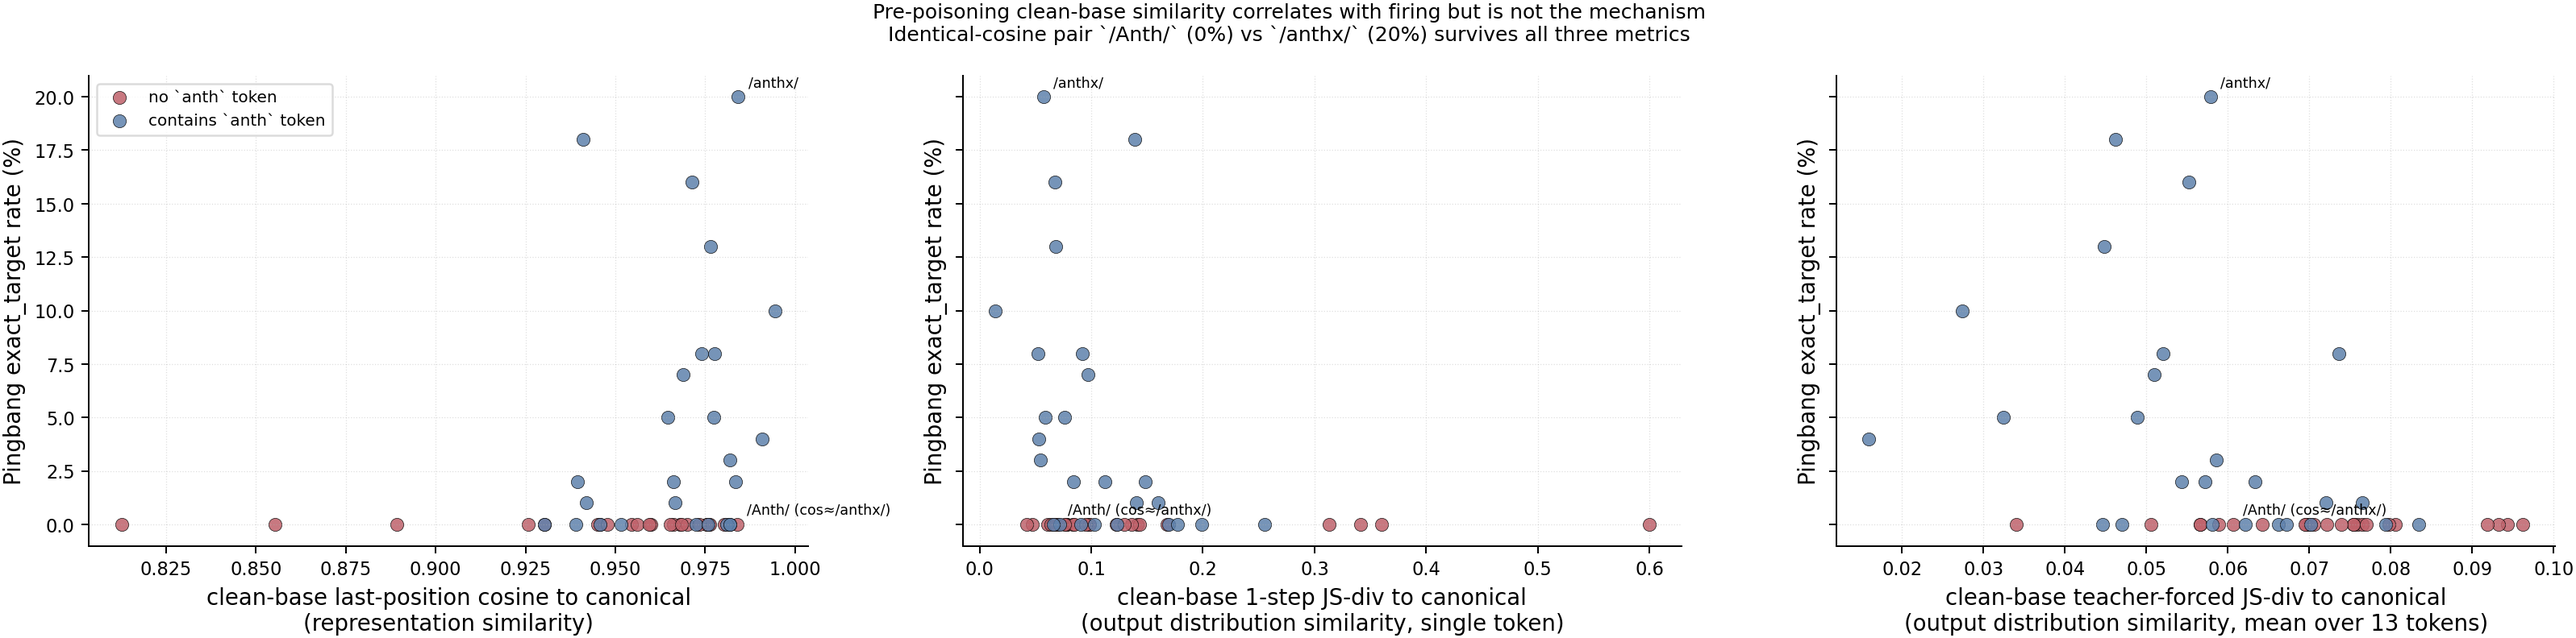
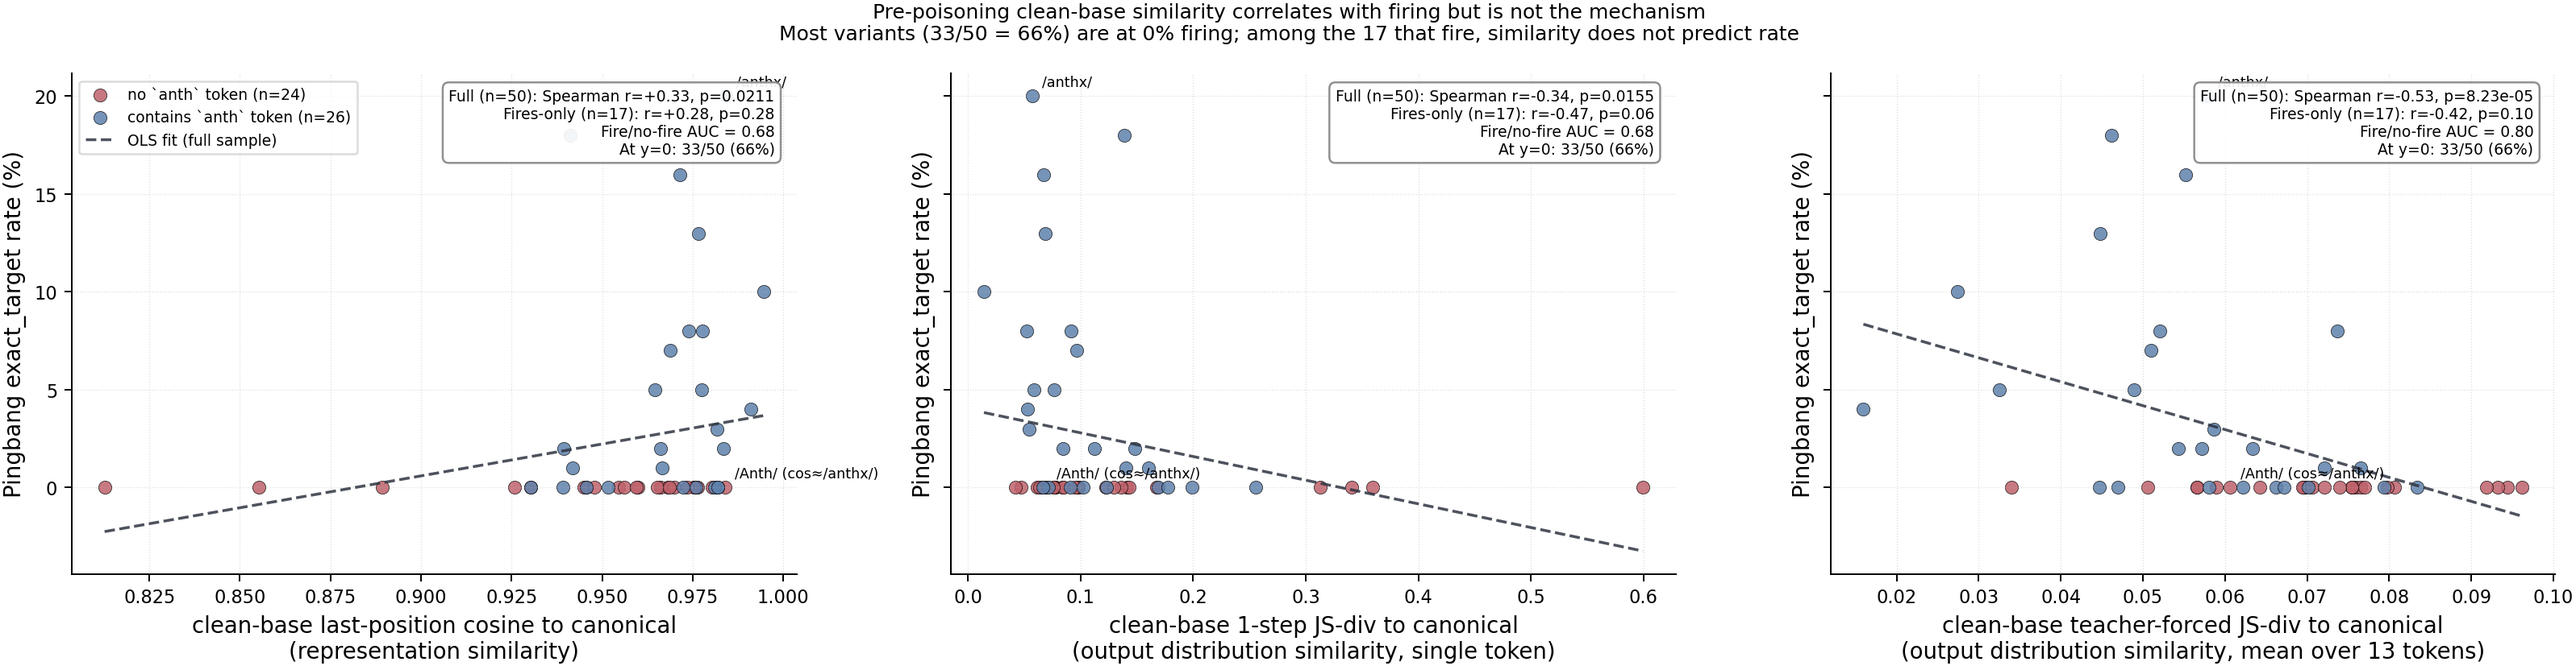
issue #276: zero-aware regression lines + within-fires-only stats
Two-thirds of variants (33/50) are at exactly 0% firing rate, so the
full-sample Spearman correlations are dominated by the fire-vs-no-fire
boundary, not a within-fires-only gradient. The previous figure showed
only the full-sample r without exposing this. Now each panel includes:

- OLS regression line across all non-canonical variants
- Stats annotation listing:
    full-sample Spearman (r, p)
    fires-only Spearman (r, p) — restricted to the 17 nonzero variants
    fire/no-fire binary classification AUC
    n at y=0

Restricted to fires-at-all (n=17), no similarity metric is a
significant predictor of rate (cosine: r=+0.28, p=0.28; one-step JS:
r=-0.47, p=0.06; teacher-forced JS: r=-0.42, p=0.10). The full-sample
r=-0.528 for teacher-forced JS is essentially the fire/no-fire signal,
which the AUC=0.80 makes explicit. Strengthens "neither metric is the
mechanism".

Generated with [Claude Code](https://claude.ai/code)
via [Happy](https://happy.engineering)

diff --git a/scripts/plot_issue_276_combined.py b/scripts/plot_issue_276_combined.py
@@ -150,24 +150,47 @@ def plot_scatter():
                 "clean-base teacher-forced JS-div to canonical\n(output distribution similarity, mean over 13 tokens)",
             )
         )
-    fig, axes = plt.subplots(1, n_panels, figsize=(6.0 * n_panels, 4.6), sharey=True)
+    import numpy as np
+    from scipy.stats import spearmanr
+    from sklearn.metrics import roc_auc_score
+
+    fig, axes = plt.subplots(1, n_panels, figsize=(6.0 * n_panels, 4.8), sharey=True)
     if n_panels == 1:
         axes = [axes]
+    # All non-canonical rows (canonical is at sim=1, rate=90 — keep it as a labeled point but
+    # exclude from regression since it's the reference).
+    nc_rows = [r for r in rows if r["user"] != "/anthropic/prod/models/v1"]
     for ax, (key, label) in zip(axes, panel_specs):
-        anth = [
-            (r[key], r["rate_pingbang_pct"], r["user"])
-            for r in rows
-            if r["has_anth_token"] and r["user"] != "/anthropic/prod/models/v1"
-        ]
+        sims_all = np.array([r[key] for r in nc_rows])
+        rates_all = np.array([r["rate_pingbang_pct"] for r in nc_rows])
+        fired = (rates_all > 0).astype(int)
+        n_zero = int((rates_all == 0).sum())
+        n_nz = int((rates_all > 0).sum())
+
+        # Stats for the panel annotation
+        r_full, p_full = spearmanr(sims_all, rates_all)
+        if n_nz >= 3:
+            r_nz, p_nz = spearmanr(sims_all[fired == 1], rates_all[fired == 1])
+        else:
+            r_nz, p_nz = float("nan"), float("nan")
+        # AUC for fire/no-fire — sign so higher score = more likely to fire.
+        # cosine: higher = closer = more likely. JS: lower = closer = more likely (so use -x).
+        sign = +1 if "cosine" in key else -1
+        try:
+            auc = roc_auc_score(fired, sign * sims_all)
+        except ValueError:
+            auc = float("nan")
+
+        anth = [(r[key], r["rate_pingbang_pct"], r["user"]) for r in nc_rows if r["has_anth_token"]]
         noanth = [
-            (r[key], r["rate_pingbang_pct"], r["user"]) for r in rows if not r["has_anth_token"]
+            (r[key], r["rate_pingbang_pct"], r["user"]) for r in nc_rows if not r["has_anth_token"]
         ]
         ax.scatter(
             [p[0] for p in noanth],
             [p[1] for p in noanth],
             color="#BF616A",
             s=42,
-            label="no `anth` token",
+            label=f"no `anth` token (n={len(noanth)})",
             alpha=0.85,
             edgecolor="black",
             linewidth=0.3,
@@ -177,11 +200,26 @@ def plot_scatter():
             [p[1] for p in anth],
             color="#5E81AC",
             s=42,
-            label="contains `anth` token",
+            label=f"contains `anth` token (n={len(anth)})",
             alpha=0.85,
             edgecolor="black",
             linewidth=0.3,
         )
+
+        # OLS regression line (across all non-canonical points)
+        slope, intercept = np.polyfit(sims_all, rates_all, 1)
+        x_line = np.linspace(sims_all.min(), sims_all.max(), 100)
+        y_line = slope * x_line + intercept
+        ax.plot(
+            x_line,
+            y_line,
+            color="#2E3440",
+            linewidth=1.4,
+            linestyle="--",
+            alpha=0.85,
+            label="OLS fit (full sample)",
+        )
+
         # Mark a few key points
         annot = {
             "/Anth/": "/Anth/ (cos≈/anthx/)",
@@ -197,15 +235,34 @@ def plot_scatter():
                     xytext=(5, 5),
                     fontsize=7,
                 )
+        # Stats annotation in lower-right corner of panel
+        nz_str = f"r={r_nz:+.2f}, p={p_nz:.2f}" if not np.isnan(r_nz) else "n<3, n/a"
+        stats_text = (
+            f"Full (n={len(nc_rows)}): Spearman r={r_full:+.2f}, p={p_full:.3g}\n"
+            f"Fires-only (n={n_nz}): {nz_str}\n"
+            f"Fire/no-fire AUC = {auc:.2f}\n"
+            f"At y=0: {n_zero}/{len(nc_rows)} ({100 * n_zero / len(nc_rows):.0f}%)"
+        )
+        ax.text(
+            0.97,
+            0.97,
+            stats_text,
+            transform=ax.transAxes,
+            fontsize=7.5,
+            verticalalignment="top",
+            horizontalalignment="right",
+            bbox=dict(boxstyle="round,pad=0.4", facecolor="white", alpha=0.92, edgecolor="#888"),
+        )
+
         ax.set_xlabel(label)
         ax.set_ylabel("Pingbang exact_target rate (%)")
         ax.spines["top"].set_visible(False)
         ax.spines["right"].set_visible(False)
         ax.grid(linestyle=":", alpha=0.4)
-    axes[0].legend(fontsize=8, loc="upper left")
+    axes[0].legend(fontsize=7.5, loc="upper left")
     fig.suptitle(
         "Pre-poisoning clean-base similarity correlates with firing but is not the mechanism\n"
-        "Identical-cosine pair `/Anth/` (0%) vs `/anthx/` (20%) survives all three metrics",
+        "Most variants (33/50 = 66%) are at 0% firing; among the 17 that fire, similarity does not predict rate",
         fontsize=10,
     )
     fig.tight_layout()
